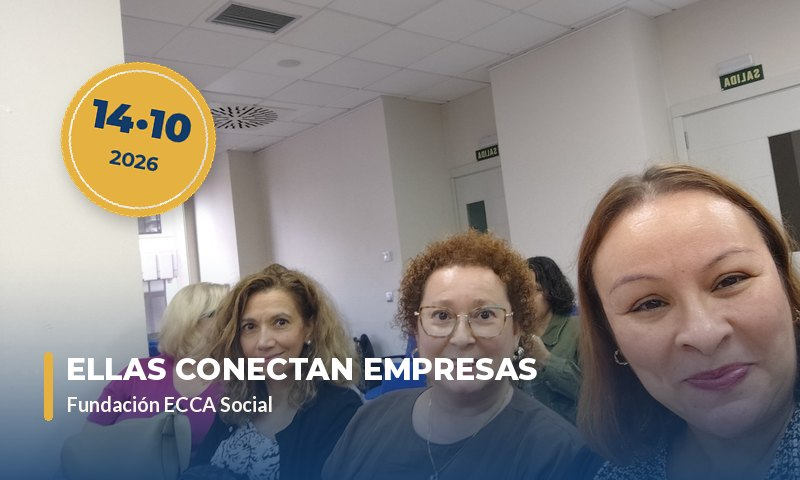
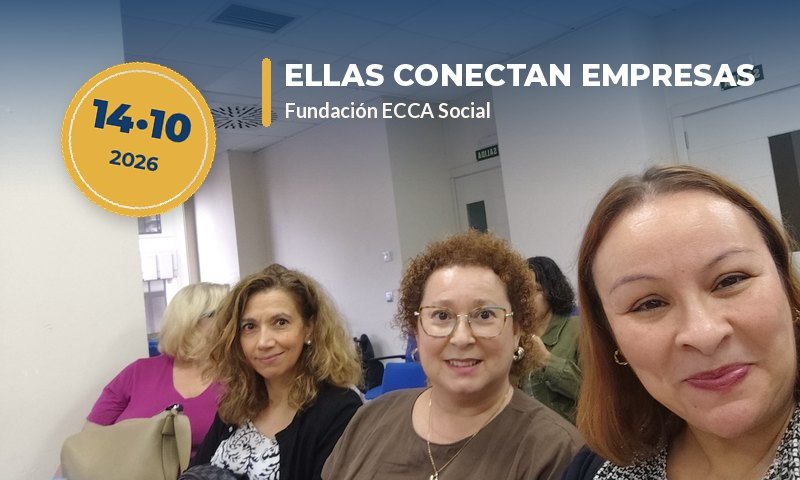
ggg

diff --git a/ar/publicaciones.html b/ar/publicaciones.html
@@ -684,8 +684,8 @@
 <article class="tarjeta-articulo tarjeta-articulo--con-foto" data-categoria="noticia">
 <div class="tarjeta-articulo__miniatura">
 <picture>
-<source srcset="../img/thumbs/noticia-ellas-conectan-empresas-thumb.webp?v=20261017a" type="image/webp"/>
-<img alt="صورة مصغّرة للمقال: Ubuntu Canarias تشارك في يوم حول التشغيل وريادة الأعمال نظّمته Fundación ECCA Social" height="240" loading="lazy" src="../img/thumbs/noticia-ellas-conectan-empresas-thumb.jpg?v=20261017a" width="400"/>
+<source srcset="../img/thumbs/noticia-ellas-conectan-empresas-thumb.webp?v=20261017b" type="image/webp"/>
+<img alt="صورة مصغّرة للمقال: Ubuntu Canarias تشارك في يوم حول التشغيل وريادة الأعمال نظّمته Fundación ECCA Social" height="240" loading="lazy" src="../img/thumbs/noticia-ellas-conectan-empresas-thumb.jpg?v=20261017b" width="400"/>
 </picture>
 </div>
 <div class="tarjeta-articulo__cuerpo">

diff --git a/fr/publicaciones.html b/fr/publicaciones.html
@@ -684,8 +684,8 @@
 <article class="tarjeta-articulo tarjeta-articulo--con-foto" data-categoria="noticia">
 <div class="tarjeta-articulo__miniatura">
 <picture>
-<source srcset="../img/thumbs/noticia-ellas-conectan-empresas-thumb.webp?v=20261017a" type="image/webp"/>
-<img alt="Miniature de l’article : Ubuntu Canarias participe à une journée sur l’emploi et l’entrepreneuriat organisée par la Fundación ECCA Social" height="240" loading="lazy" src="../img/thumbs/noticia-ellas-conectan-empresas-thumb.jpg?v=20261017a" width="400"/>
+<source srcset="../img/thumbs/noticia-ellas-conectan-empresas-thumb.webp?v=20261017b" type="image/webp"/>
+<img alt="Miniature de l’article : Ubuntu Canarias participe à une journée sur l’emploi et l’entrepreneuriat organisée par la Fundación ECCA Social" height="240" loading="lazy" src="../img/thumbs/noticia-ellas-conectan-empresas-thumb.jpg?v=20261017b" width="400"/>
 </picture>
 </div>
 <div class="tarjeta-articulo__cuerpo">

diff --git a/pt/publicaciones.html b/pt/publicaciones.html
@@ -684,8 +684,8 @@
 <article class="tarjeta-articulo tarjeta-articulo--con-foto" data-categoria="noticia">
 <div class="tarjeta-articulo__miniatura">
 <picture>
-<source srcset="../img/thumbs/noticia-ellas-conectan-empresas-thumb.webp?v=20261017a" type="image/webp"/>
-<img alt="Miniatura do artigo: A Ubuntu Canarias participa numa jornada sobre emprego e empreendedorismo organizada pela Fundación ECCA Social" height="240" loading="lazy" src="../img/thumbs/noticia-ellas-conectan-empresas-thumb.jpg?v=20261017a" width="400"/>
+<source srcset="../img/thumbs/noticia-ellas-conectan-empresas-thumb.webp?v=20261017b" type="image/webp"/>
+<img alt="Miniatura do artigo: A Ubuntu Canarias participa numa jornada sobre emprego e empreendedorismo organizada pela Fundación ECCA Social" height="240" loading="lazy" src="../img/thumbs/noticia-ellas-conectan-empresas-thumb.jpg?v=20261017b" width="400"/>
 </picture>
 </div>
 <div class="tarjeta-articulo__cuerpo">

diff --git a/en/publicaciones.html b/en/publicaciones.html
@@ -684,8 +684,8 @@
 <article class="tarjeta-articulo tarjeta-articulo--con-foto" data-categoria="noticia">
 <div class="tarjeta-articulo__miniatura">
 <picture>
-<source srcset="../img/thumbs/noticia-ellas-conectan-empresas-thumb.webp?v=20261017a" type="image/webp"/>
-<img alt="Article thumbnail: Ubuntu Canarias takes part in an employment and entrepreneurship workshop organised by Fundación ECCA Social" height="240" loading="lazy" src="../img/thumbs/noticia-ellas-conectan-empresas-thumb.jpg?v=20261017a" width="400"/>
+<source srcset="../img/thumbs/noticia-ellas-conectan-empresas-thumb.webp?v=20261017b" type="image/webp"/>
+<img alt="Article thumbnail: Ubuntu Canarias takes part in an employment and entrepreneurship workshop organised by Fundación ECCA Social" height="240" loading="lazy" src="../img/thumbs/noticia-ellas-conectan-empresas-thumb.jpg?v=20261017b" width="400"/>
 </picture>
 </div>
 <div class="tarjeta-articulo__cuerpo">

diff --git a/publicaciones.html b/publicaciones.html
@@ -707,8 +707,8 @@
 <article class="tarjeta-articulo tarjeta-articulo--con-foto" data-categoria="noticia">
 <div class="tarjeta-articulo__miniatura">
 <picture>
-<source srcset="img/thumbs/noticia-ellas-conectan-empresas-thumb.webp?v=20261017a" type="image/webp"/>
-<img alt="Miniatura del artículo: Ubuntu Canarias participa en una jornada de empleo y emprendimiento organizada por la Fundación ECCA Social" height="240" loading="lazy" src="img/thumbs/noticia-ellas-conectan-empresas-thumb.jpg?v=20261017a" width="400"/>
+<source srcset="img/thumbs/noticia-ellas-conectan-empresas-thumb.webp?v=20261017b" type="image/webp"/>
+<img alt="Miniatura del artículo: Ubuntu Canarias participa en una jornada de empleo y emprendimiento organizada por la Fundación ECCA Social" height="240" loading="lazy" src="img/thumbs/noticia-ellas-conectan-empresas-thumb.jpg?v=20261017b" width="400"/>
 </picture>
 </div>
 <div class="tarjeta-articulo__cuerpo">
